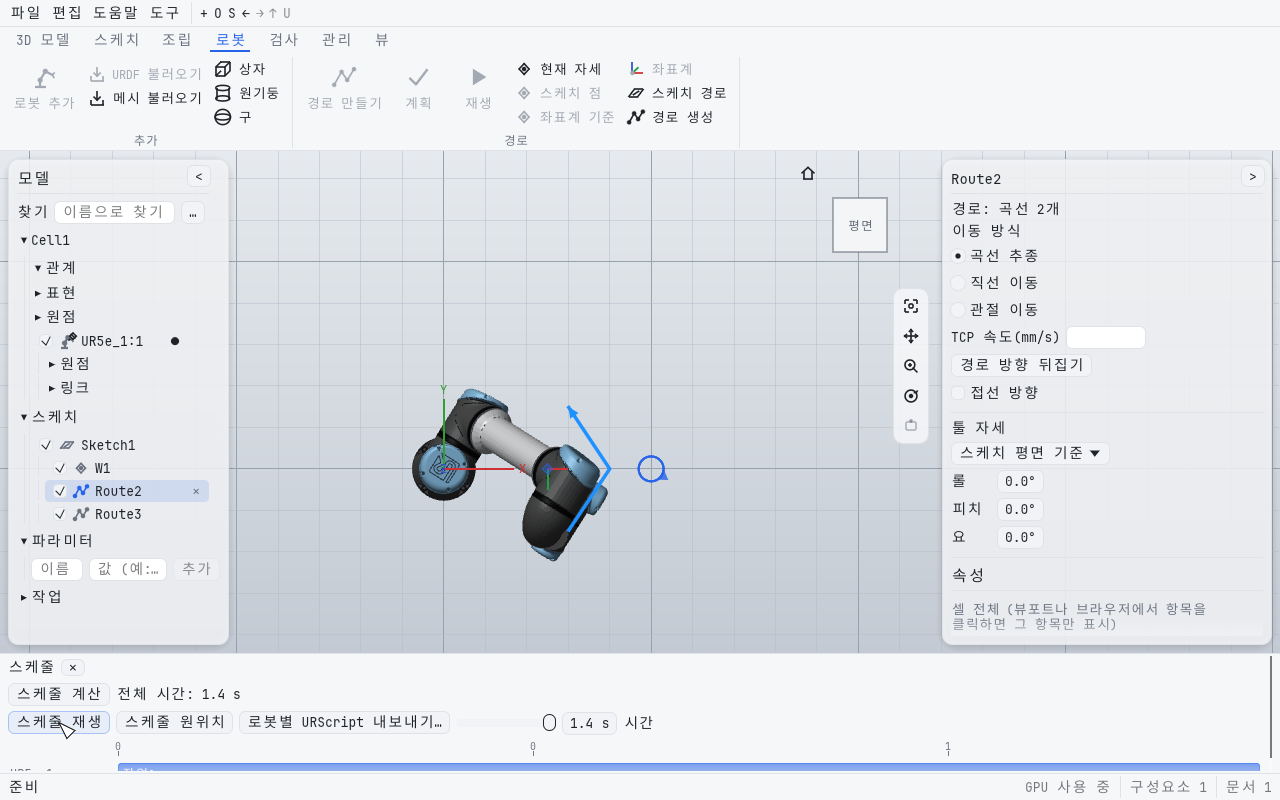
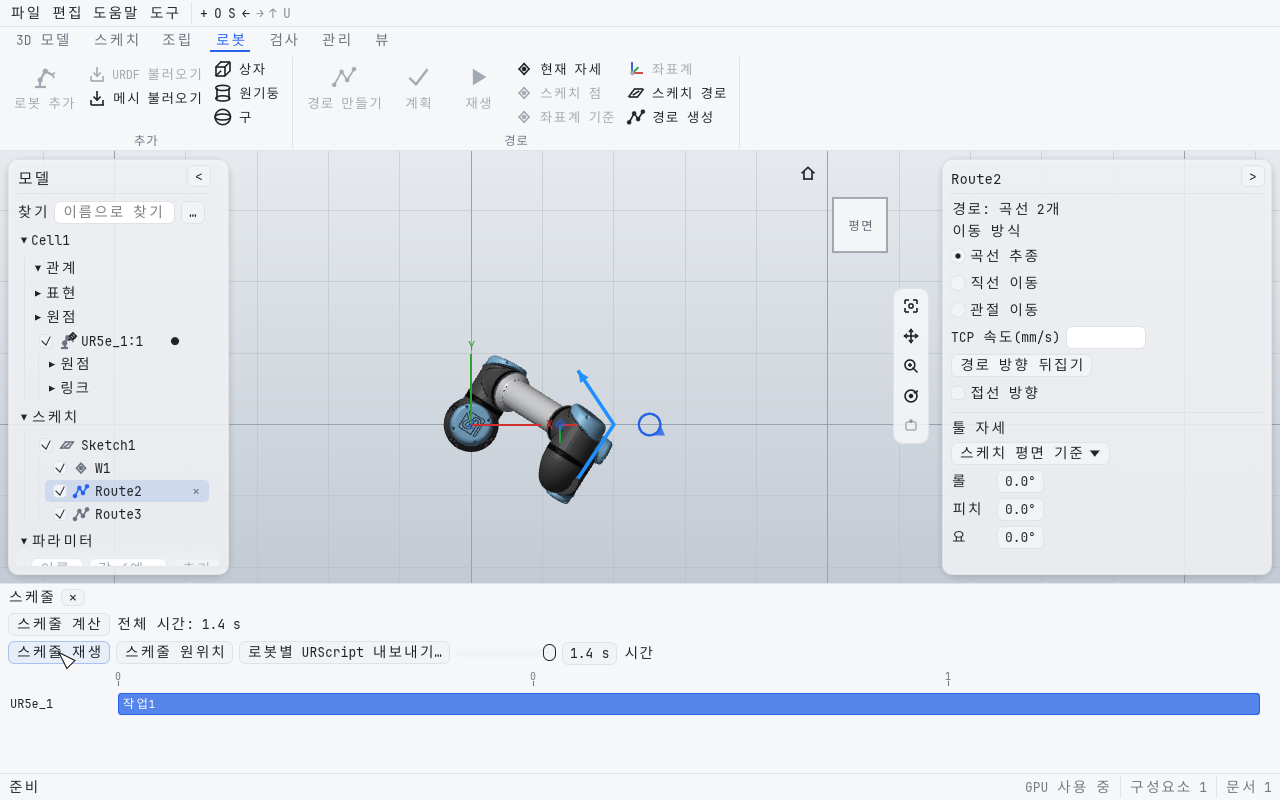
스케줄 패널 최소 높이, 역할 선택 시 속성 패널 중복 머리 제거, 증거 PNG 갱신
Claude-Session: https://claude.ai/code/session_011W5REQc2zEWLVWkkdjRGB4

Changed region(s): [[0.0, 0.4375, 1.0, 0.9375], [0.0938, 0.9375, 1.0, 0.9688]]

diff --git a/crates/app/gc_app/src/app.rs b/crates/app/gc_app/src/app.rs
@@ -1712,7 +1712,7 @@ impl eframe::App for GraphCtrlApp {
         let mut work_request: Option<gc_panels::WorkRequest> = None;
         // The schedule: a bottom panel with the Gantt chart, above the status bar (declared after it).
         if self.schedule_open {
-            egui::Panel::bottom("schedule").resizable(true).default_size(180.0).min_size(120.0).show(
+            egui::Panel::bottom("schedule").resizable(true).default_size(220.0).min_size(190.0).show(
                 ui,
                 |ui| {
                     egui::ScrollArea::vertical().show(ui, |ui| {
@@ -2002,16 +2002,25 @@ impl eframe::App for GraphCtrlApp {
                 ui.set_max_width(ui.available_width());
                 egui::ScrollArea::vertical().show(ui, |ui| {
                     // A sketch role selected in the browser has its own properties.
+                    let mut other_focus = false;
                     if let Some(role) =
                         self.viewport.role_selected.filter(|id| self.session.doc().get(*id).is_some())
                     {
                         gc_panels::role_properties(ui, &mut self.session, lang, role);
-                        ui.separator();
+                        other_focus = true;
                     }
                     // What is selected in the work node has its editor.
                     if self.params.work.selected.is_some() {
                         work_request =
                             gc_panels::work_properties(ui, &mut self.session, lang, &self.params.work);
+                        other_focus = true;
+                    }
+                    // With a role or a task selected the panel shows only that, not the whole cell's note and
+                    // properties below it.
+                    if other_focus && self.session.selected_item().is_none() {
+                        return;
+                    }
+                    if other_focus {
                         ui.separator();
                     }
                     gc_panels::properties(ui, &mut self.session, lang, &mut self.expression);

diff --git a/docs/handoff/frontend.md b/docs/handoff/frontend.md
@@ -721,6 +721,10 @@
 - `gc_tools/src/tool.rs`: `ToolCommand::Close`가 사슬 끝이 시작점과 같으면(방금 시작점 클릭으로 닫은 직후) 무시 → (0,0)→(0,0) 선이 생기지 않음. QA `a_chain_that_ends_back_on_its_start_has_nothing_left_to_close`의 ignore 해제.
 - Constrain 대화상자가 Insert 탭이면 `Viewport::circle_first`: 원형 모서리를 원통 옆면보다 먼저, 더 넓은 범위(카메라 거리의 3%)에서 고름. 새 테스트 `on_the_insert_tab_most_clicks_around_a_visible_rim_pick_the_circle`(12곳 중 10곳 이상).
 
+## 리뷰 반영: 스케줄 패널 높이, 역할 선택 시 속성 패널
+
+- 스케줄 패널 기본 220·최소 190px(간트 행이 보임, 위쪽 경계 끌기로 조절). 역할·작업을 선택하면(선택 항목 없을 때) 속성 패널은 그 편집기만 보여 "속성 / 셀 전체…" 중복 머리를 없앰. flow-*.png 갱신.
+
 ## 남은 일
 - 어셈블리 P1 FE 남은 것: #2 컴포넌트 원점 폴더·가시성(백엔드 원점 데이터 필요), #3 뷰포트에서 원점 평면·축·점 선택, #4 컴포넌트 평면 위 스케치, #8 단면도(Half/Quarter/Three-Quarter + 캡: 클립 평면은 F7 인프라 재사용, 캡 렌더 필요), #10 구속 표시·DOF 글리프, #13 Free Move/Rotate
 - 브라우저: 삭제 시 `dependents_of` 목록을 보여 주는 확인 안내(지금은 거부 메시지만), 끌어서 순서 바꾸기(`MoveInTree`), 롤백 마커 표시(`rollback_index`), 설비(`assemblies`)·작업 피처·피처 그룹
